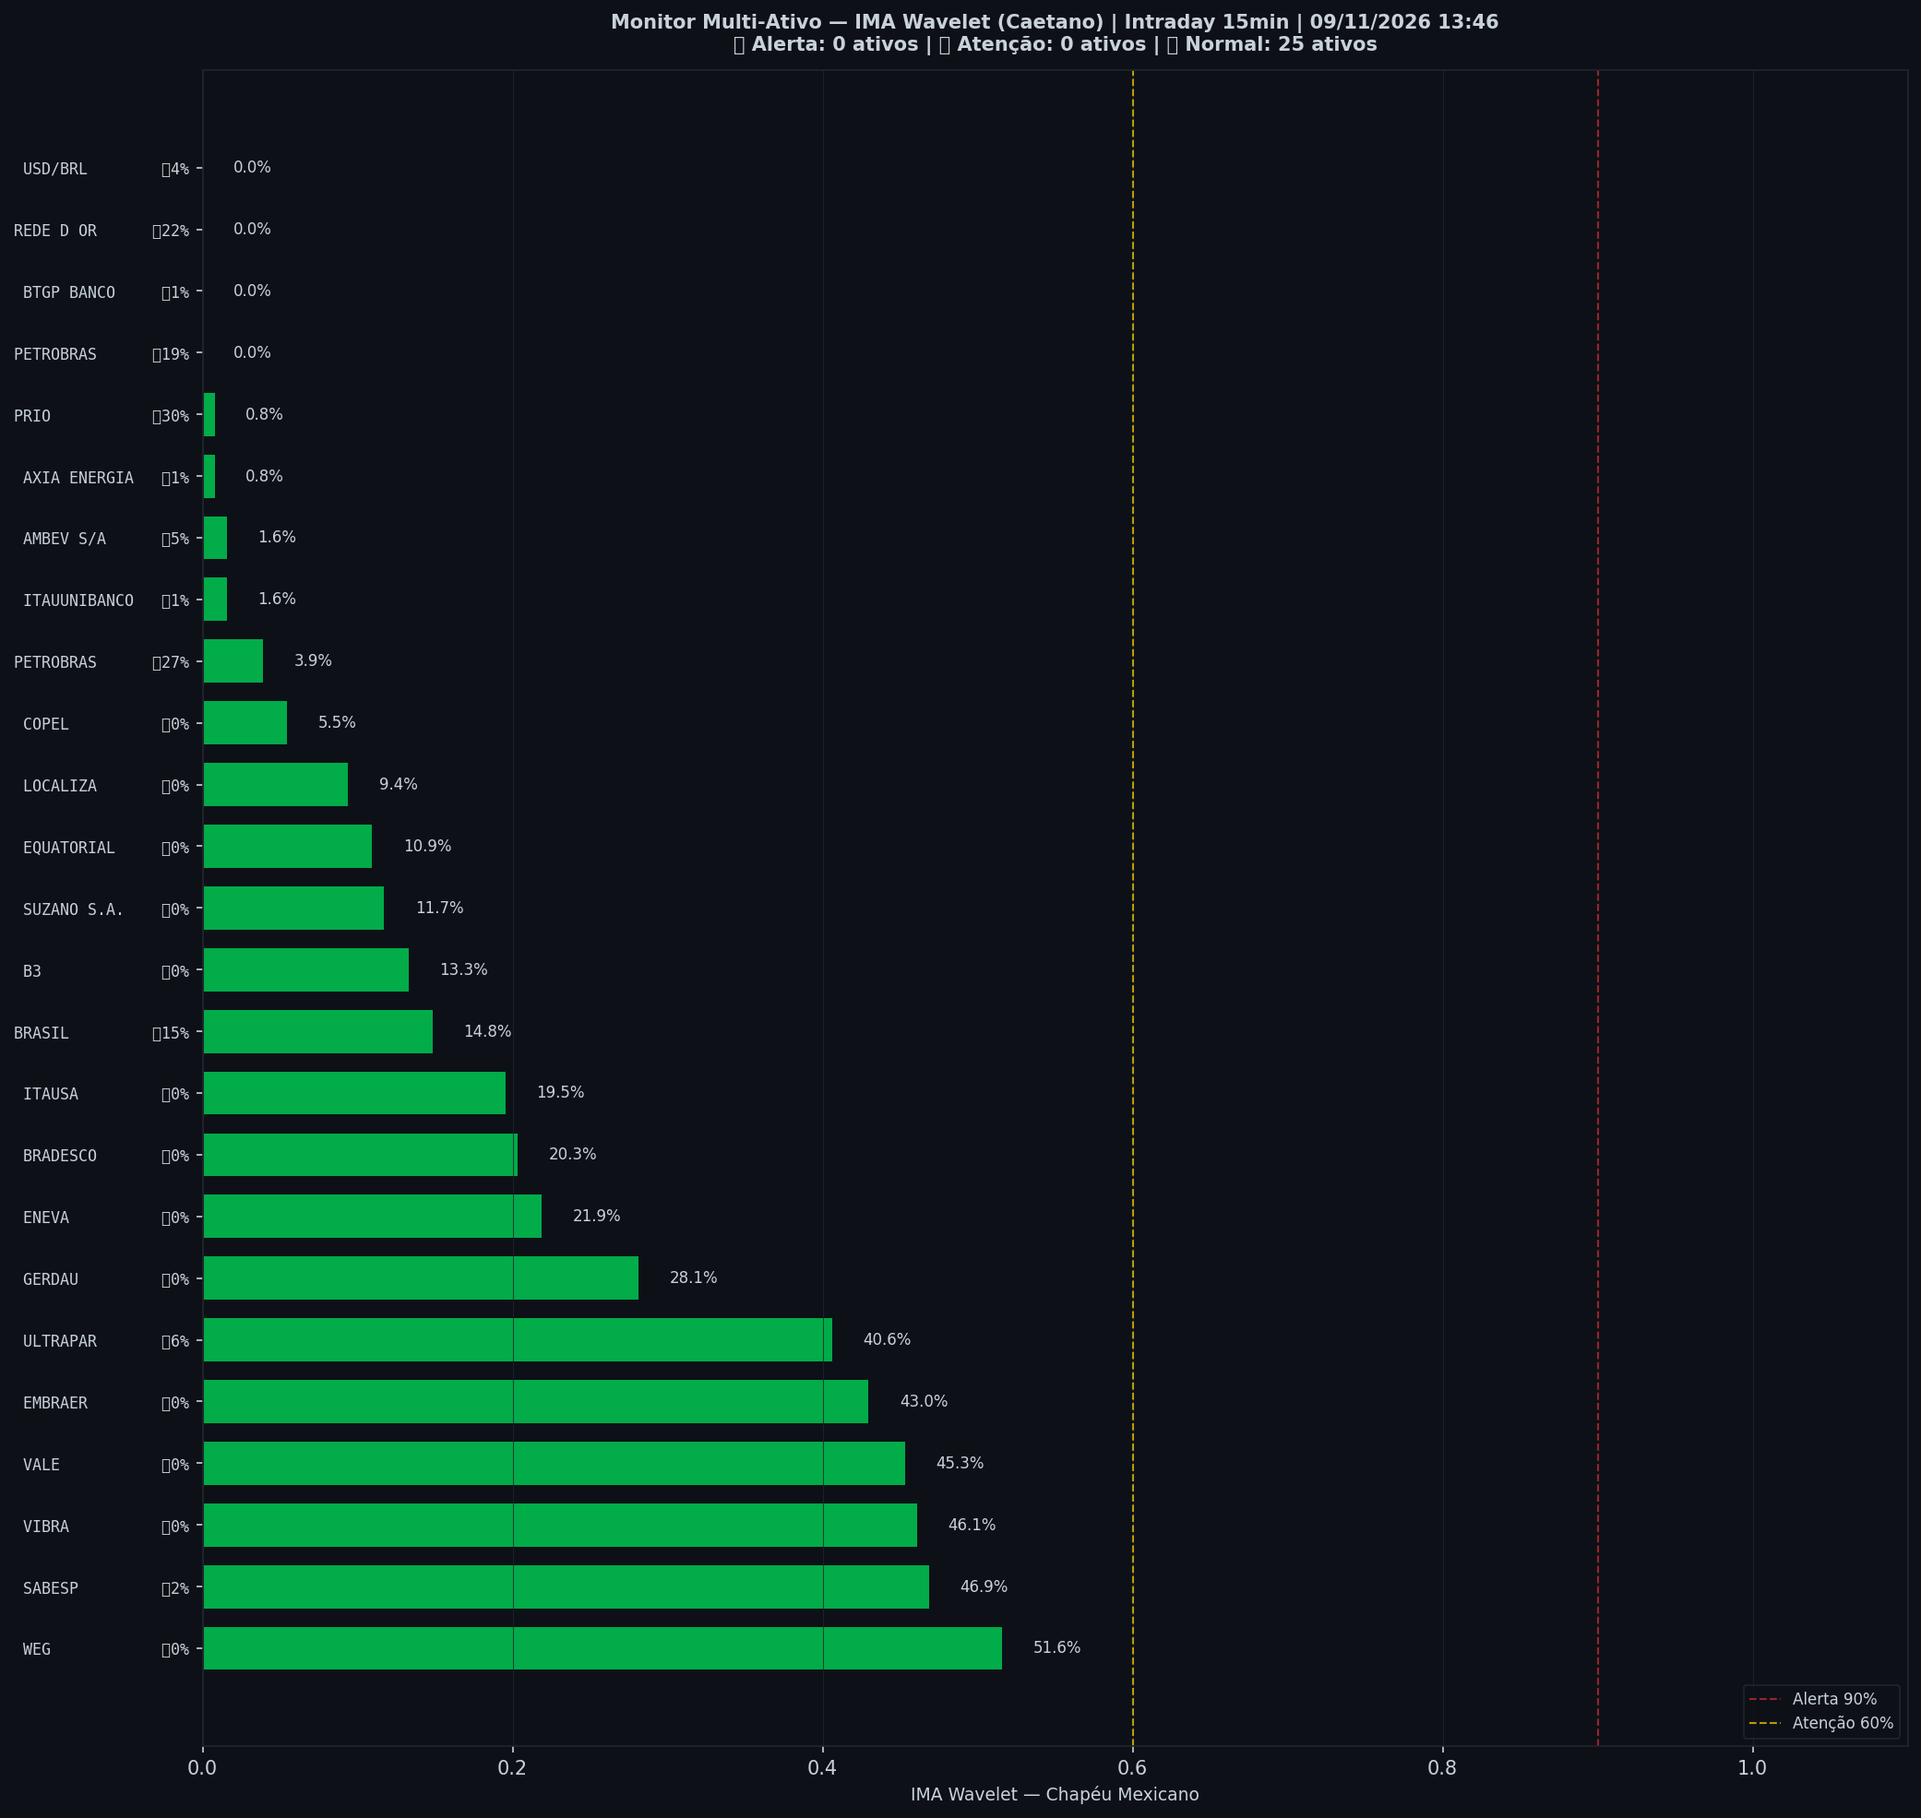
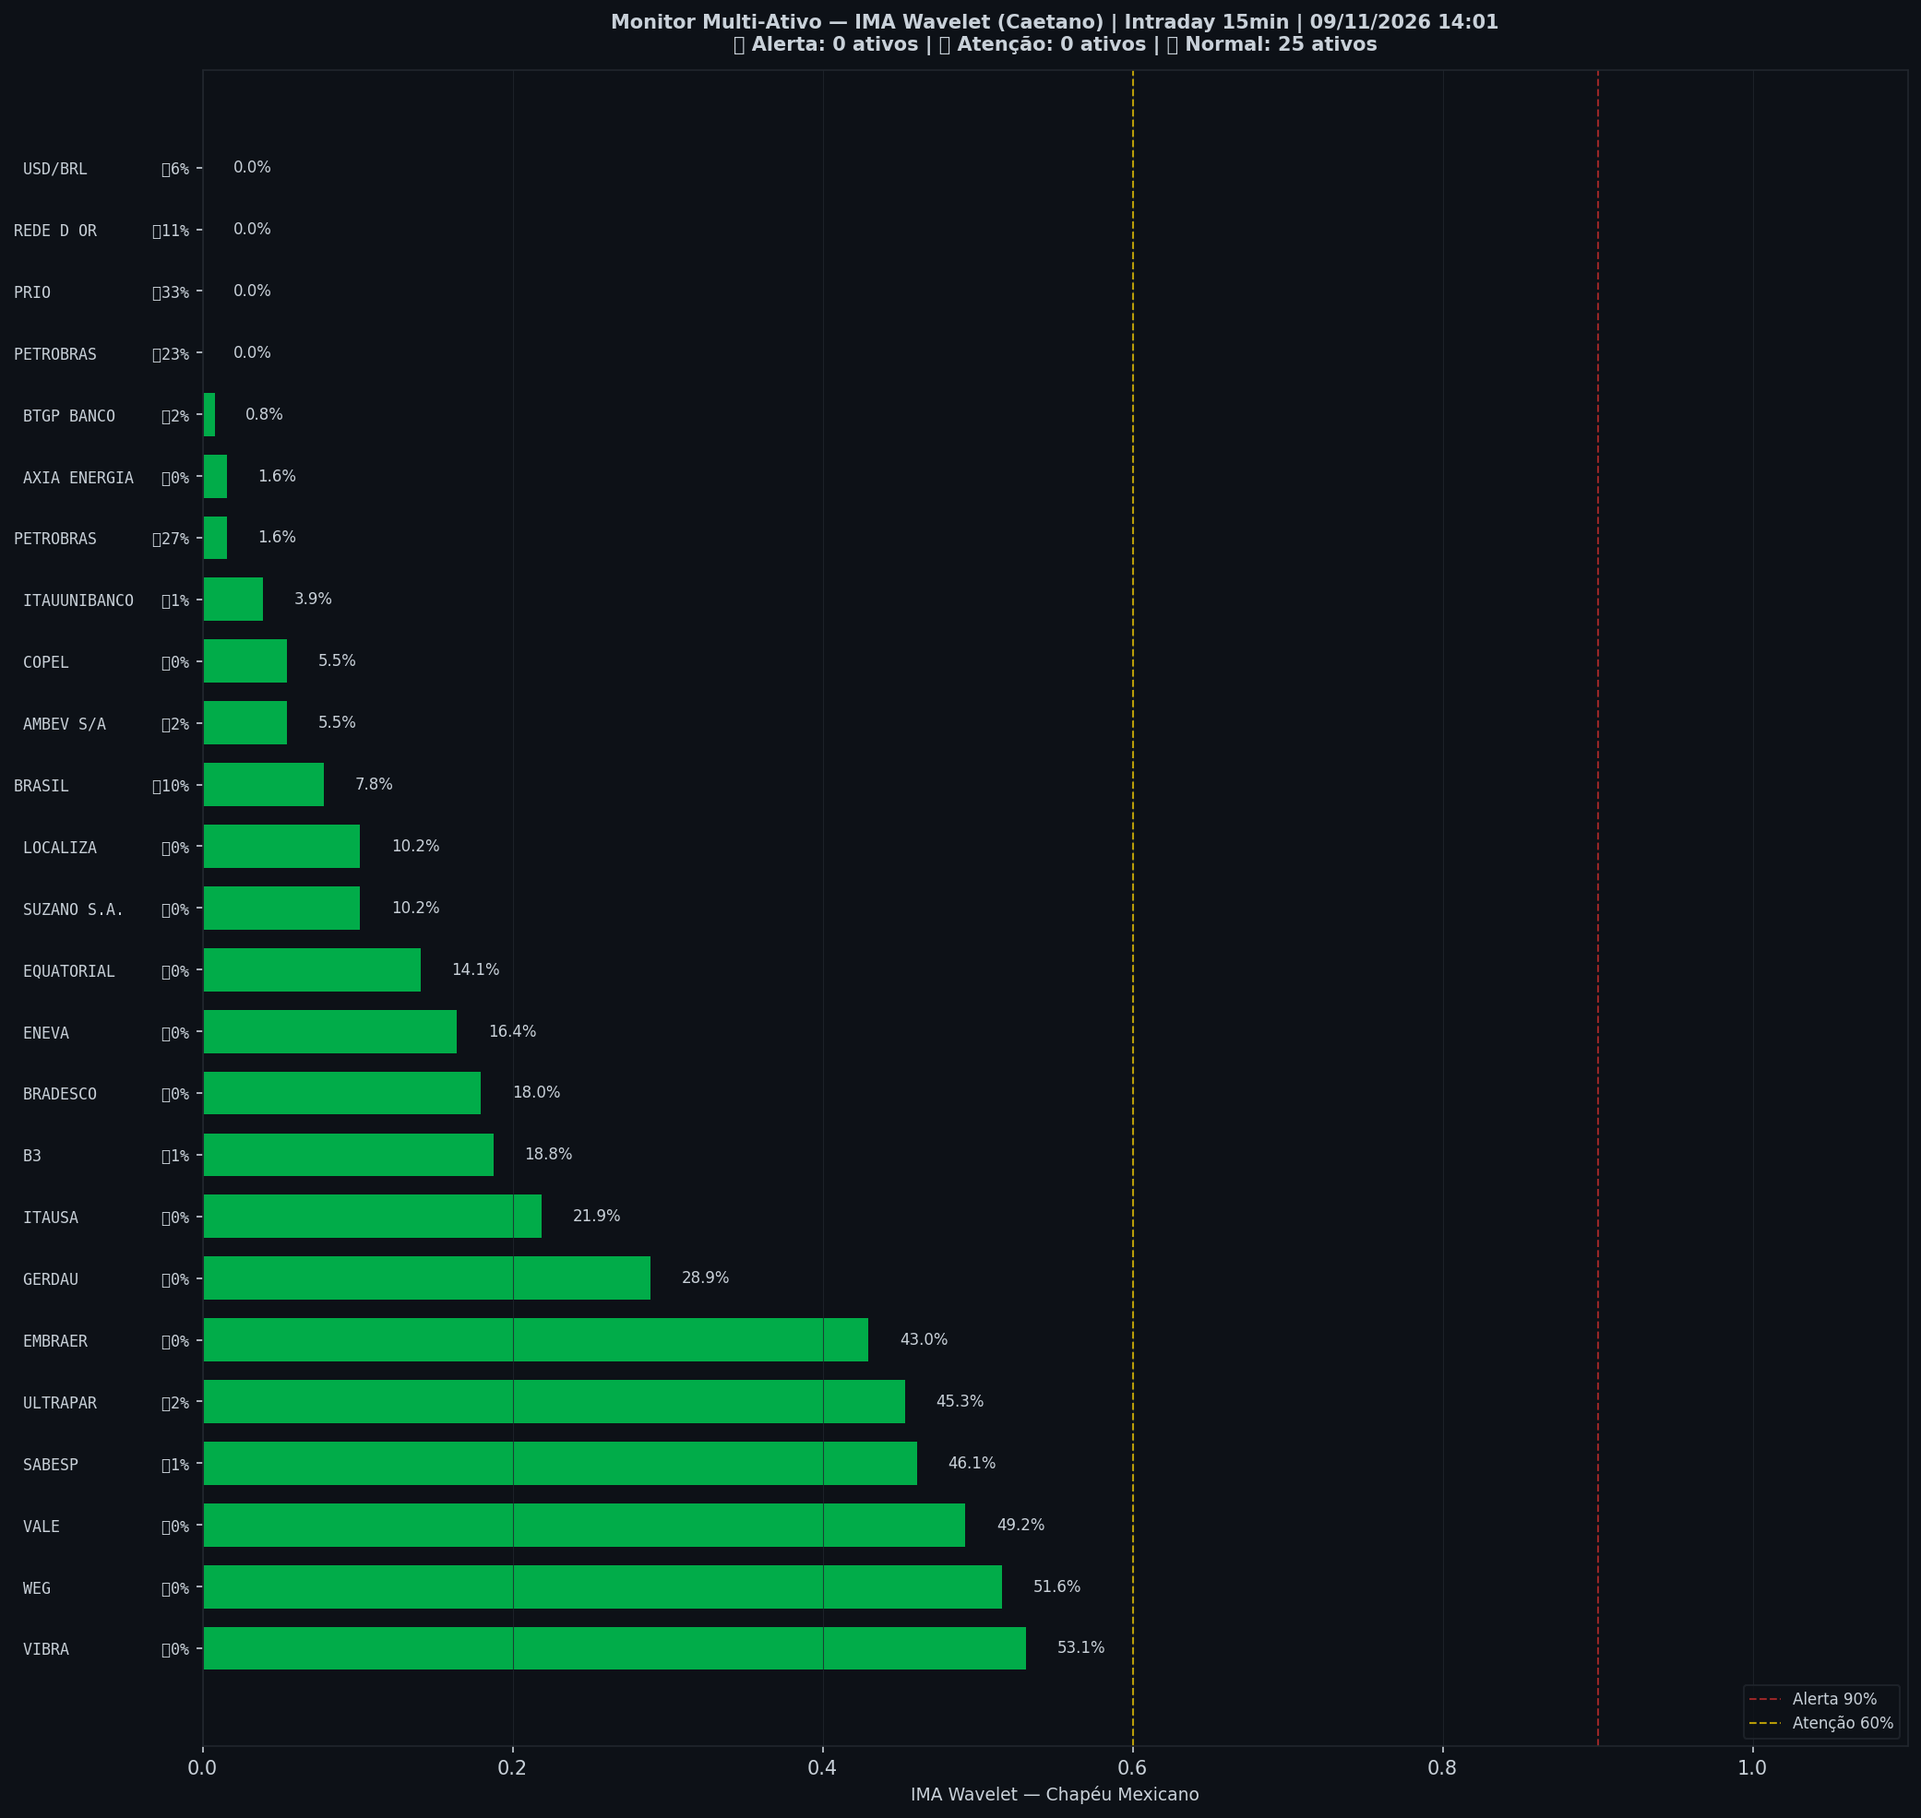
🤖 Auto: Sinal 09/11/2026 14:01

diff --git a/content/intraday/2026-11-09.md b/content/intraday/2026-11-09.md
@@ -1,11 +1,11 @@
 ---
-title: "🟢 Intraday 09/11/2026 13:30 BRT — VERDE"
+title: "🟢 Intraday 09/11/2026 13:45 BRT — VERDE"
 date: 2026-11-09
 tags: [intraday]
 ---
 
-> [!success] Onde o mercado está agora (09/11 13:30, candles de 15 min): **🟢 Calmo**
-> `Pânico ◀─────────────●───────▶ Euforia`
+> [!success] Onde o mercado está agora (09/11 13:45, candles de 15 min): **🟢 Calmo**
+> `Pânico ◀──────────────●──────▶ Euforia`
 >
 > O Ibovespa está dentro da sua faixa normal, sem excesso para cima nem para baixo.
 > No gráfico diário: 🔪 Queda forte em curso.
@@ -20,8 +20,8 @@ tags: [intraday]
 > | 📍 **Sinais** | hoje: nenhum sinal | [abrir](sinais-topo-fundo/) |
 > | 🧪 **Placar ao vivo** | 1 operação(ões), 0 com lucro, soma -0,8% | [abrir](operacoes/) |
 
-> [!success] IMA Intraday · 15 min (09/11 13:30): 🟢 **VERDE** — Risco 32% · ＝ +0 p.p. vs leitura anterior
-> `██████░░░░░░░░░░░░░░`
+> [!success] IMA Intraday · 15 min (09/11 13:45): 🟢 **VERDE** — Risco 37% · ▲ +5 p.p. vs leitura anterior
+> `███████░░░░░░░░░░░░░`
 > Preço na faixa normal em torno da tendência.
 
 
@@ -32,13 +32,13 @@ tags: [intraday]
 >
 > *Leitura educacional baseada em 26 anos de dados, não recomendação. [Como usar](../metodologia/crise#3-como-usar-na-prática).*
 
-| Indicador — IMA Intraday · 15 min (09/11 13:30) | Valor |
+| Indicador — IMA Intraday · 15 min (09/11 13:45) | Valor |
 |---|---|
-| 🔴 ζ Topo — preço esticado acima da tendência | **32%** |
+| 🔴 ζ Topo — preço esticado acima da tendência | **37%** |
 | 🔵 ζ Fundo — preço esticado abaixo da tendência | 0% |
 | 🫧 LPPL bolha — alta super-exponencial (risco de crash) | 0% |
 | 🫧 LPPL antibolha — queda super-exponencial (risco de repique) | 0% |
-| 📊 Ibovespa | 170.968 pts |
+| 📊 Ibovespa | 171.185 pts |
 
 ![Gráfico do sinal](../graficos/sinal_intraday.png)
 
@@ -46,6 +46,7 @@ tags: [intraday]
 
 | Data | Zona | Evento | Risco | ζ Topo | ζ Fundo | LPPL |
 |---|---|---|---|---|---|---|
+| 2026-11-09 13:45 | 🟢 VERDE |  | **37%** | 37% | 0% | 0% |
 | 2026-11-09 13:30 | 🟢 VERDE |  | **32%** | 32% | 0% | 0% |
 | 2026-11-09 13:15 | 🟢 VERDE |  | **32%** | 32% | 0% | 0% |
 | 2026-11-09 13:00 | 🟢 VERDE |  | **33%** | 33% | 0% | 0% |
@@ -75,7 +76,6 @@ tags: [intraday]
 | 2026-11-06 15:15 | 🟢 VERDE |  | **41%** | 41% | 0% | 0% |
 | 2026-11-06 15:00 | 🟢 VERDE |  | **42%** | 42% | 0% | 0% |
 | 2026-11-06 14:45 | 🟢 VERDE |  | **44%** | 44% | 0% | 0% |
-| 2026-11-06 14:30 | 🟢 VERDE |  | **45%** | 45% | 0% | 0% |
 
 <small>Destaques: 🟡 ≥ 60% · 🔴 ≥ 90% (Risco e ζ Topo) · 🔵 ≥ 60% · 🔪 ≥ 90% (ζ Fundo) · 🫧 ≥ 30% · 🫧🔴 ≥ 50% (LPPL)</small>
 
@@ -85,37 +85,37 @@ tags: [intraday]
 
 | Zona | Ativo | Setor | ζ Topo | ζ Fundo |
 |---|---|---|---|---|
+| 🟢 | **VIBRA** | Energia | 53.1% | 0.0% |
 | 🟢 | **WEG** | Industrial | 51.6% | 0.0% |
-| 🟡 | **SABESP** | Saneamento | 46.9% | 1.6% |
-| 🟢 | **VIBRA** | Energia | 46.1% | 0.0% |
-| 🟢 | **VALE** | Mineração | 45.3% | 0.0% |
+| 🟢 | **VALE** | Mineração | 49.2% | 0.0% |
+| 🟡 | **SABESP** | Saneamento | 46.1% | 0.8% |
+| 🟢 | **ULTRAPAR** | Outros | 45.3% | 1.6% |
 | 🟢 | **EMBRAER** | Outros | 43.0% | 0.0% |
-| 🟢 | **ULTRAPAR** | Outros | 40.6% | 6.2% |
-| 🟢 | **PRIO** | Petróleo | 0.8% | 29.7% |
-| 🟢 | **GERDAU** | Siderurgia | 28.1% | 0.0% |
-| 🟢 | **PETROBRAS** | Petróleo | 3.9% | 27.3% |
-| 🟢 | **ENEVA** | Energia | 21.9% | 0.0% |
-| 🟢 | **REDE D OR** | Saúde | 0.0% | 21.9% |
-| 🟢 | **BRADESCO** | Financeiro | 20.3% | 0.0% |
-| 🟢 | **ITAUSA** | Financeiro | 19.5% | 0.0% |
-| 🟢 | **PETROBRAS** | Petróleo | 0.0% | 18.8% |
-| 🟢 | **BRASIL** | Financeiro | 14.8% | 14.8% |
-| 🟢 | **B3** | Financeiro | 13.3% | 0.0% |
-| 🟢 | **SUZANO S.A.** | Papel/Celulose | 11.7% | 0.0% |
-| 🟢 | **EQUATORIAL** | Energia | 10.9% | 0.0% |
-| 🟢 | **LOCALIZA** | Aluguel | 9.4% | 0.0% |
-| 🟢 | **AMBEV S/A** | Consumo | 1.6% | 5.5% |
+| 🟢 | **PRIO** | Petróleo | 0.0% | 32.8% |
+| 🟢 | **GERDAU** | Siderurgia | 28.9% | 0.0% |
+| 🟢 | **PETROBRAS** | Petróleo | 1.6% | 26.6% |
+| 🟢 | **PETROBRAS** | Petróleo | 0.0% | 22.7% |
+| 🟢 | **ITAUSA** | Financeiro | 21.9% | 0.0% |
+| 🟢 | **B3** | Financeiro | 18.8% | 0.8% |
+| 🟢 | **BRADESCO** | Financeiro | 18.0% | 0.0% |
+| 🟢 | **ENEVA** | Energia | 16.4% | 0.0% |
+| 🟢 | **EQUATORIAL** | Energia | 14.1% | 0.0% |
+| 🟢 | **REDE D OR** | Saúde | 0.0% | 10.9% |
+| 🟢 | **BRASIL** | Financeiro | 7.8% | 10.2% |
+| 🟢 | **SUZANO S.A.** | Papel/Celulose | 10.2% | 0.0% |
+| 🟢 | **LOCALIZA** | Aluguel | 10.2% | 0.0% |
+| 🟢 | **USD/BRL** | Câmbio | 0.0% | 6.2% |
+| 🟢 | **AMBEV S/A** | Consumo | 5.5% | 2.3% |
 | 🟢 | **COPEL** | Energia | 5.5% | 0.0% |
-| 🟢 | **USD/BRL** | Câmbio | 0.0% | 3.9% |
-| 🟢 | **ITAUUNIBANCO** | Financeiro | 1.6% | 0.8% |
-| 🟢 | **AXIA ENERGIA** | Energia | 0.8% | 0.8% |
-| 🟢 | **BTGP BANCO** | Financeiro | 0.0% | 0.8% |
+| 🟢 | **ITAUUNIBANCO** | Financeiro | 3.9% | 0.8% |
+| 🟢 | **AXIA ENERGIA** | Energia | 1.6% | 0.0% |
+| 🟢 | **BTGP BANCO** | Financeiro | 0.8% | 1.6% |
 
 <small>Destaques: 🟡 ≥ 60% · 🔴 ≥ 90% (Risco e ζ Topo) · 🔵 ≥ 60% · 🔪 ≥ 90% (ζ Fundo) · 🫧 ≥ 30% · 🫧🔴 ≥ 50% (LPPL)</small>
 
 ![Monitor multi-ativo](../graficos/multi_intraday.png)
 
-*Página atualizada em 09/11/2026 13:46 BRT (leitura da barra de 2026-11-09 13:30 BRT).*
+*Página atualizada em 09/11/2026 14:01 BRT (leitura da barra de 2026-11-09 13:45 BRT).*
 
 > [!warning] O que este indicador não faz
 > Medido em 5 anos de Ibovespa, o ζ **não antecipa** topos nem fundos: a capacidade de separar o que sobe do que cai ficou em 0,49–0,52, e 0,50 é moeda jogada ao ar. Ele descreve o estado de agora; não é aviso do que vem. As zonas verde/amarelo/vermelho continuam na página como descrição desse estado — **não as use como sinal de entrada ou saída**.

diff --git a/content/index.md b/content/index.md
@@ -6,10 +6,10 @@ tags: [home]
 
 **As ondas do mercado, explicadas.** Leitura do Ibovespa com estatística de 26 anos, baseada no trabalho de pesquisadores e traders reconhecidos e adaptada por Jarbas Daniel da Costa.
 
-*Última atualização: 09/11/2026 13:46 BRT · Intraday 15min*
+*Última atualização: 09/11/2026 14:01 BRT · Intraday 15min*
 
-> [!success] Onde o mercado está agora (09/11 13:30, candles de 15 min): **🟢 Calmo**
-> `Pânico ◀─────────────●───────▶ Euforia`
+> [!success] Onde o mercado está agora (09/11 13:45, candles de 15 min): **🟢 Calmo**
+> `Pânico ◀──────────────●──────▶ Euforia`
 >
 > O Ibovespa está dentro da sua faixa normal, sem excesso para cima nem para baixo.
 > No gráfico diário: 🔪 Queda forte em curso.
@@ -20,7 +20,7 @@ tags: [home]
 
 | Módulo | Agora | |
 |---|---|---|
-| 🌊 **Sinal IMA** | 🟢 VERDE · 🟢 calmo · ζ Topo 32% | [relatório](intraday/2026-11-09) |
+| 🌊 **Sinal IMA** | 🟢 VERDE · 🟢 calmo · ζ Topo 37% | [relatório](intraday/2026-11-09) |
 | 📈 **Tendência MME9** | Diário — fora<br>Semanal — fora | [abrir](operacoes/tendencia) |
 | 🎯 **Entradas do método** | ⏳ aguardando: Diário · Nadaraya, Diário · Semáforo N3 após ζ Fundo | [abrir](operacoes/entradas) |
 | 📍 **Sinais** | hoje: nenhum sinal | [abrir](sinais-topo-fundo/) |
@@ -49,18 +49,18 @@ tags: [home]
 > *Leitura educacional baseada em 26 anos de dados, não recomendação. [Como usar](metodologia/crise#3-como-usar-na-prática).*
 
 > [!info]- 🌊 Detalhes do Sinal IMA (indicadores e últimos 7 pregões)
-> > [!success] IMA Intraday · 15 min (09/11 13:30): 🟢 **VERDE** — Risco 32% · ＝ +0 p.p. vs leitura anterior
-> > `██████░░░░░░░░░░░░░░`
+> > [!success] IMA Intraday · 15 min (09/11 13:45): 🟢 **VERDE** — Risco 37% · ▲ +5 p.p. vs leitura anterior
+> > `███████░░░░░░░░░░░░░`
 > > Preço na faixa normal em torno da tendência.
 >
 >
-> | Indicador — IMA Intraday · 15 min (09/11 13:30) | Valor |
+> | Indicador — IMA Intraday · 15 min (09/11 13:45) | Valor |
 > |---|---|
-> | 🔴 ζ Topo — preço esticado acima da tendência | **32%** |
+> | 🔴 ζ Topo — preço esticado acima da tendência | **37%** |
 > | 🔵 ζ Fundo — preço esticado abaixo da tendência | 0% |
 > | 🫧 LPPL bolha — alta super-exponencial (risco de crash) | 0% |
 > | 🫧 LPPL antibolha — queda super-exponencial (risco de repique) | 0% |
-> | 📊 Ibovespa | 170.968 pts |
+> | 📊 Ibovespa | 171.185 pts |
 >
 > **Multi-ativo:** 0% em tensão (0🔴 1🟡 de 25 ativos)
 >
@@ -68,7 +68,7 @@ tags: [home]
 >
 > | Data | Zona | Risco | ζ Topo | ζ Fundo | LPPL |
 > |---|---|---|---|---|---|
-> | [09/11/2026](intraday/2026-11-09) | 🟢 VERDE | **32%** | 32% | 0% | 0% |
+> | [09/11/2026](intraday/2026-11-09) | 🟢 VERDE | **37%** | 37% | 0% | 0% |
 > | [06/11/2026](intraday/2026-11-06) | 🟢 VERDE | **2%** | 2% | 0% | 0% |
 >
 > <small>Destaques: 🟡 ≥ 60% · 🔴 ≥ 90% (Risco e ζ Topo) · 🔵 ≥ 60% · 🔪 ≥ 90% (ζ Fundo) · 🫧 ≥ 30% · 🫧🔴 ≥ 50% (LPPL)</small>

diff --git a/content/operacoes/entradas.md b/content/operacoes/entradas.md
@@ -31,7 +31,7 @@ description: "Compra depois de um sinal de fundo: Nadaraya no diário, semáforo
 > | Diário · Semáforo N3 após ζ Fundo | 07/07/26 a 172.021 | 10/08/26 a 172.021 | **+0,0%** | stop no preço de entrada |
 > | H4 · Semáforo N2 | 12/06/26 14h a 171.134 | 15/06/26 14h a 171.134 | **+0,0%** | stop no preço de entrada |
 >
-> <small>Atualizado 06/11 19:00. Nota: ✅ passou no teste fora da amostra (walk-forward 2008–2026) · 🧪 em teste (H4, com aviso no Telegram) ou em observação (ζ, sem aviso) · 🧪 na tabela = operação do teste ao vivo.</small>
+> <small>Atualizado 06/11 19:00 · checado no pregão às 14:00. Nota: ✅ passou no teste fora da amostra (walk-forward 2008–2026) · 🧪 em teste (H4, com aviso no Telegram) ou em observação (ζ, sem aviso) · 🧪 na tabela = operação do teste ao vivo.</small>
 >
 > *Regras: depois de um sinal de fundo, o Diário entra quando o Nadaraya vira para cima; o Semanal e o H4 entram quando um fundo do semáforo fica fixo. Stop e saída de cada regra na [metodologia](metodologia/regras-de-operacao#entradas-do-método). Nenhuma regra de venda passou no teste. Os números do histórico têm viés de escolha (overfitting); o placar ao vivo é o que vale. Leitura educacional do método, não recomendação.*
 

diff --git a/content/historico.md b/content/historico.md
@@ -5,7 +5,7 @@ tags: [historico]
 
 # 📜 Histórico de leituras (v5)
 
-**2.225 leituras** desde 2026-07-03. Na página ficam os últimos 3 dias leitura por leitura e o resumo de cada dia anterior; o registro inteiro está no arquivo para baixar.
+**2.226 leituras** desde 2026-07-03. Na página ficam os últimos 3 dias leitura por leitura e o resumo de cada dia anterior; o registro inteiro está no arquivo para baixar.
 
 [**Baixar o histórico completo**](historico-completo.csv) (98 KB · abre no Excel e no LibreOffice)
 
@@ -16,6 +16,7 @@ tags: [historico]
 
 | Data | Modo | Zona | Risco | IMA | LPPL |
 |---|---|---|---|---|---|
+| 2026-11-09 13:45 | intraday | 🟢 VERDE | 37% | 37% | 0% |
 | 2026-11-09 13:30 | intraday | 🟢 VERDE | 32% | 32% | 0% |
 | 2026-11-09 13:15 | intraday | 🟢 VERDE | 32% | 32% | 0% |
 | 2026-11-09 13:00 | intraday | 🟢 VERDE | 33% | 33% | 0% |

diff --git a/content/operacoes/ranking.md b/content/operacoes/ranking.md
@@ -5,7 +5,7 @@ tags: [operacoes]
 description: "As regras de compra do site ordenadas pelo resultado, com treino, teste e placar ao vivo"
 ---
 
-*Atualizado 09/11/2026 13:46 · histórico simulado com as regras congeladas em 23/10/2026 + placar ao vivo.*
+*Atualizado 09/11/2026 14:01 · histórico simulado com as regras congeladas em 23/10/2026 + placar ao vivo.*
 
 As regras de compra do site, **da que mais rendeu para a que menos rendeu**. O resultado é por operação, no índice à vista, sem custos e sem juros compostos (a soma é só a soma das operações). **Treino** = entradas de 2001 a 2013 e **teste** = 2014 em diante: uma regra só é confiável se ganhou nos dois. O único resultado sem nenhum ajuste ao histórico é o **placar ao vivo**.
 

diff --git a/content/linha-do-tempo/index.md b/content/linha-do-tempo/index.md
@@ -5,7 +5,7 @@ description: "Todo sinal, ordem, stop e aviso do Pêndulo de Mercado, do mais re
 tags: [eventos]
 ---
 
-*Atualizada 09/11/2026 13:46 BRT · a cada 15 min no pregão e às 19h.*
+*Atualizada 09/11/2026 14:01 BRT · a cada 15 min no pregão e às 19h.*
 
 Tudo o que o sistema fez ou detectou, **do mais recente para o mais antigo**: sinais de topo e fundo, ordens de compra e de venda armadas, compras, vendas, stops, avisos de 🚨 preço perto do nível e mudanças do Sinal IMA. Os **últimos 7 dias** ficam abertos; o resto, por **ano → mês → dia**.
 
